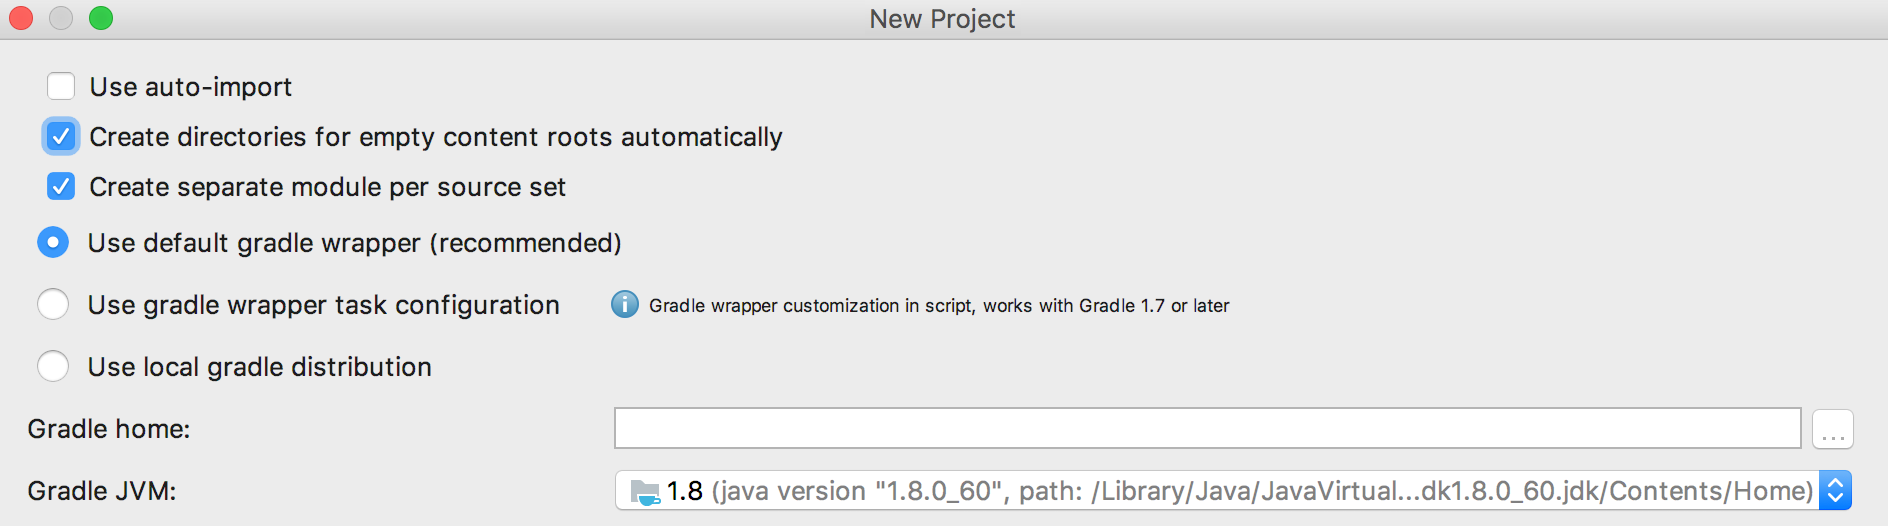
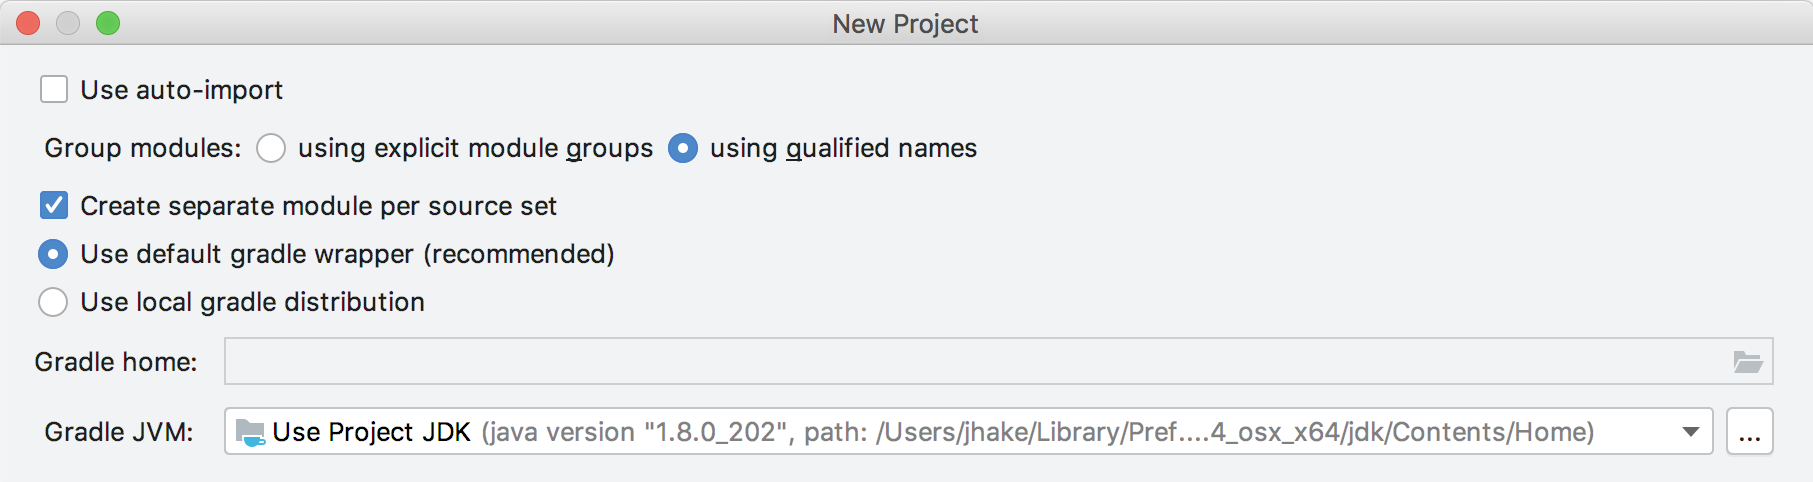
Rewrote gradle project creation and conversion sections

diff --git a/tutorials/build_system/prerequisites.md b/tutorials/build_system/prerequisites.md
@@ -2,46 +2,197 @@
 title: Getting Started with Gradle
 ---
 
-Adding Gradle build support to an IntelliJ Platform Plugin requires a recent distribution of the Gradle build system and IntelliJ IDEA (Community or Ultimate). 
+Gradle is the preferred solution for creating IntelliJ Platform plugins.
+The IntelliJ IDEA Ultimate and Community editions bundle the necessary plugins to support Gradle-based development.
+These IntelliJ IDEA plugins are _Gradle_ and _Plugin DevKit_, which are enabled by default.
+To verify these plugins are installed and enabled, see the help section about [Managing Plugins](https://www.jetbrains.com/help/idea/managing-plugins.html).
 
-### 1.0 Download and Install IntelliJ IDEA
+* bullet list
+{:toc}
 
-Download and install either IntelliJ IDEA Ultimate or the IntelliJ IDEA Community Edition. 
 
-### 1.1 Ensure that 'Gradle' and 'Plugin DevKit' Plugins are Enabled
+## Creating a Gradle-Based IntelliJ Platform Plugin with New Project Wizard
+IntelliJ IDEA supports creating new Gradle-based IntelliJ Platform plugin projects using the [New Project Wizard](https://www.jetbrains.com/help/idea/gradle.html#project_create_gradle).
+The Wizard creates all the necessary project files based on a few template inputs.
 
-You can verify that the plugins are enabled by visiting **Settings \| Plugins**. 
+Before creating a new Gradle project, familiarize yourself with the IntelliJ IDEA help topic [Creating a new Gradle project](https://www.jetbrains.com/help/idea/getting-started-with-gradle.html#create_gradle_project), which is a tutorial for creating general Gradle projects in IntelliJ IDEA.
+This page emphasizes the steps in the process pertaining to Gradle-based IntelliJ Platform plugin projects.
 
-![Ensure the Gradle plugin is enabled](img/step0_gradle_enabled.png){:width="858px"}
+Launch the [New Project Wizard](https://www.jetbrains.com/help/idea/gradle.html#project_create_gradle).
+It guides you through the Gradle project creation process with four screens.
 
-### 1.2 Create a Plugin Project from Scratch
-
-IntelliJ IDEA supports automatically creating new plugin projects using Gradle, with all the necessary `build.gradle` setup performed automatically. 
-This can also be used to convert an existing plugin to Gradle, if Gradle is not able to convert the existing project - in this case, you need to copy over the sources to the new project. 
-
-To do so, create a new project in IntelliJ IDEA by opening **File \| New... \| Project**, and select Gradle from the dialog box. 
-In the "Additional Libraries and Frameworks" page, check "IntelliJ Platform Plugin".
+### New Project Configuration Screen
+On the first screen the type of project is configured:
+* From the _product category_ pane on the left, choose _Gradle_.
+* Specify the _Project SDK_.
+  Note that an [_IntelliJ Platform Plugin SDK_](/basics/getting_started/setting_up_environment.md#configuring-intellij-platform-sdk) can be used but is not required.
+  However, select a _Project SDK_ based on the 1.8 JDK because it:
+  * Will be the default JRE used to run Gradle (this can be changed later),
+  * Will also be the Java version to use when compiling Java source.
+    As of this writing, Java 1.8 is the most recent JDK supported by the IntelliJ Platform.
+* In the _Additional Libraries and Frameworks_ panel, select _Java_ and _IntelliJ Platform Plugin_, then click _Next_.
 
 ![Select the Gradle facet in the Project Creation Wizard](img/step1_new_gradle_project.png){:width="800px"}
 
-The Project Creation Wizard will now guide you through the Gradle project creation process. 
-You will need to specify a Group ID, Artifact ID, and Version:
+### Project Naming Screen
+On this, the second screen of the Wizard, specify a [Group ID, Artifact ID, and plugin Version](https://www.jetbrains.com/help/idea/gradle.html#project_create_gradle) using [Maven naming](https://maven.apache.org/guides/mini/guide-naming-conventions.html) conventions.
+* _Group ID_ is typically a Java package name, and it is used for the `project.group` value in the project's `build.gradle` file.
+* _Artifact ID_ is the default name of the project JAR file (without version).
+  It is also used for the `rootProject.name` value in the project's `settings.gradle` file.
+* _Version_ is used for the `project.version` value in the `build.gradle` file. 
 
-![Specify the Group, Artifact, and Version IDs](img/step2_group_artifact_version.png){:width="800px"}
+Click _Next_ to continue. 
 
-It’s recommended to select the `Use default gradle wrapper` option, that way IntelliJ IDEA will install everything you need to run Gradle tasks itself. 
-
-Finally, specify a JVM Gradle will use, it can be the Project JDK. 
-You also configure this path once the project is created via **Settings \| Build, Execution, Deployment \| Build Tools \| Gradle**. 
+### Gradle Settings Screen
+The third screen prompts for Gradle-specific settings. 
+All of these settings can be changed once the project is created via **Settings \| Build, Execution, Deployment \| Build Tools \| Gradle**. 
+* Select whether to [_Use auto-import_](https://www.jetbrains.com/help/idea/gradle-settings.html).
+* Select _Create directories for empty content roots automatically_.
+  This selection will add a `src` directory to your project.
+* Choose how to [_Group modules_](https://www.jetbrains.com/help/idea/creating-and-managing-modules.html#grouping-modules), either by IntelliJ IDEA logical grouping or by Qualified Names. 
+  For new projects grouping modules by qualified names is recommended.
+* Create a separate module per Gradle [`SourceSet`](https://docs.gradle.org/current/userguide/java_plugin.html#source_sets). 
+  For a new project, this option results in `main` and `test` modules.
+* It’s recommended to select the [_Use default gradle wrapper_](https://docs.gradle.org/current/userguide/gradle_wrapper.html) option.
+  That way IntelliJ IDEA installs everything you need to run Gradle tasks. 
+* Skip using a local Gradle distribution, at least initially.
+  The Gradle plugin automatically downloads the preferred version of Gradle.
+  A local Gradle distribution can be used, but ensure it meets the version requirements of the [Gradle plugin](https://github.com/JetBrains/gradle-intellij-plugin/blob/master/README.md). 
+* Finally, specify a JVM for Gradle.
+  It can be the _Project JDK_, which was specified as the [_Project SDK_](#new-project-configuration-screen) on the first screen. 
+  
+Click _Next_ to continue. 
 
 ![Verify the JVM is the correct version](img/step3_gradle_config.png){:width="800px"}
 
-### 1.3 Configuring a Gradle Plugin Project
-Support for Gradle-based plugin projects is provided by the IntelliJ Platform `gradle-intellij-plugin`. 
+### Project Name and Location Screen
+The final Wizard screen is for setting the [project name and location](https://www.jetbrains.com/help/idea/project-name-and-location.html#Project_Name_and_Location.xml).
+The _Project name_ is pre-filled with the [Artifact ID](#project-naming-screen).
 
-> **Note** Please make sure to always upgrade to latest version of `gradle-intellij-plugin` plugin, follow releases on [GitHub](https://github.com/JetBrains/gradle-intellij-plugin/releases). 
+Note the choice of _Project format_ under _More Settings_ is somewhat superfluous.
+Although an `.idea` directory or `.ipr` file is generated as the project is created and built, it is Gradle and the IntelliJ IDEA Gradle plugin that control many aspects of the project.  
 
-See the [Gradle plugin README](https://github.com/JetBrains/gradle-intellij-plugin/blob/master/README.md#gradle) for more information. 
+Click _Finish_.
+
+### Components of a Wizard-Generated Gradle IntelliJ Platform Plugin
+The New Project Wizard produces the project layout shown below:
+* The default IntelliJ Platform `build.gradle` file.
+  The contents are further discussed below.
+* The Gradle Wrapper files, and in particular the `gradle-wrapper.properties` file, which specifies the version of Gradle to be used to build the plugin.
+  If needed, the IntelliJ IDEA Gradle plugin will download the version of Gradle specified in this file.
+* The shell scripts `gradlew` and `gradlew.bat` for executing the plugin build with the Wrapper files. 
+* The `settings.gradle` file, containing a definition of the `rootProject.name`.
+* The structure under the `src` directory is the default Gradle [`SourceSet`](https://docs.gradle.org/current/userguide/java_plugin.html#sec:java_project_layout), tailored for an IntelliJ Platform Plugin.
+
+```text
+  my_gradle_plugin/
+    build.gradle
+    gradle/
+      wrapper/
+        gradle-wrapper.jar
+        gradle-wrapper.properties
+    gradlew
+    gradlew.bat
+    settings.gradle
+    src/
+      main
+        java/
+        resources/
+          META-INF/
+            plugin.xml
+      test
+        java/
+        resources/
+```
+
+The New Project Wizard produces the `build.gradle` file shown below:
+* There is no explicit `buildscript{}` in the file.
+  The IntelliJ IDEA Gradle plugin dynamically creates a `buildscript{}`.
+* Two plugins to Gradle are explicitly declared:
+  * The [Gradle Java](https://docs.gradle.org/current/userguide/java_plugin.html) plugin.
+  * The [IntelliJ IDEA Gradle plugin](https://github.com/JetBrains/gradle-intellij-plugin/).
+* The _Group ID_ from the Wizard [Project Naming Screen](#project-naming-screen) is the `(project.)group` value.
+* The _Version_ from the Wizard [Project Naming Screen](#project-naming-screen) is the `(project.)version` value.
+* The `sourceCompatibility` line is injected to enforce using JDK 1.8.
+* The only comment in the file is a link to the `README.md` for the IntelliJ IDEA Gradle plugin, which is a reference for the DSLs defined by the plugin.
+* The value of the Setup DSL attribute `intellij.version` specifies the version of the IntelliJ Platform to be used to build the plugin.
+  It defaults to the version of IntelliJ IDEA that was used to run the Wizard.
+* The value of the Patching DSL attribute `patchPluginXml.changeNotes` is set to place holder text.
+
+```text
+  plugins {
+      id 'java'
+      id 'org.jetbrains.intellij' version '0.4.8'
+  }
+  
+  group 'com.your.company'
+  version '1.0' 
+  sourceCompatibility = 1.8
+  
+  repositories {
+      mavenCentral()
+  } 
+  dependencies {
+      testCompile group: 'junit', name: 'junit', version: '4.12'
+  }
+  
+  // See https://github.com/JetBrains/gradle-intellij-plugin/
+  intellij {
+      version '2019.1'
+  }
+  patchPluginXml {
+      changeNotes """
+        Add change notes here.<br>
+        <em>most HTML tags may be used</em>"""
+  }
+```
+
+### Opening a Wizard-Generated Gradle Project for the First Time
+The first time a project is opened an _Import Project from Gradle_ dialog appears.
+This dialog is essentially the same as the Wizard [Gradle Settings Screen](#gradle-settings-screen).
+Opening the project is an import because the Gradle plugin translates some of the project's Gradle files into IntelliJ IDEA project working files.
+For example, the import creates a `.idea` directory and a `<project_name>.iml` file.
+
+These IntelliJ IDEA project working files can be saved with the project to avoid the import step in the future.
+See the note at the end of the [Creating a new Gradle project](https://www.jetbrains.com/help/idea/gradle.html#project_create_gradle) about how newly created or imported projects are stored externally by default.
+
+## Adding Gradle Support to an Existing DevKit-Based IntelliJ Platform Plugin
+As of this writing, there isn't an IntelliJ IDEA Wizard to automatically convert a DevKit-based plugin project to a Gradle-based plugin project.
+Conversion can be done, however, using the New Project Wizard to create a Gradle-based project around the existing DevKit-based project: 
+* Ensure the directory containing the DevKit-based IntelliJ Platform plugin project can be fully recovered if necessary.
+* Delete all the artifacts of the DevKit-based project:
+  * `.idea` directory
+  * IML file
+  * `out` directory
+* Arrange the existing source files within the project directory in Gradle `SourceSet` format. 
+* Use [Gradle Plugin Wizard](#creating-a-gradle-based-intellij-platform-plugin-with-new-project-wizard) as though creating a new project from scratch.
+* On the [Project Naming Screen](#project-naming-screen) set the values to:
+  * GroupID to the existing package in the initial source set.
+  * ArtifactID to the name of the existing plugin.
+  * Version to the same as the existing plugin.
+* On the [Project Name and Location Screen](#project-project-name-and-location-screen) set the values to:
+  * _Project name_ to the name of the existing plugin. 
+    (It should be pre-filled from the _ArtifactID_)
+  * Set the _Project location_ to the directory of the existing plugin.
+* Click _Finish_ to create the new Gradle-based plugin.
+* [Add more modules](https://www.jetbrains.com/help/idea/gradle.html#gradle_add_module) using Gradle [_Source Sets_](https://www.jetbrains.com/help/idea/gradle.html#gradle_source_sets) as needed.
+
+
+## Running a Simple Gradle-Based IntelliJ Platform Plugin
+Open the IntelliJ Platform SDK in IntelliJ IDEA Ultimate or Community Edition using **File \| Open** and navigating to the root directory of the local copy of the IntelliJ Platform SDK. Open the Gradle tool window and look for the _gradle_plugin_demo_ project:
+* Drill down in the Gradle tool window to find **gradle_plugin_demo \| Tasks \| intellij | runIde**.
+  If it’s not in the list, please hit the `Refresh` button at the top of the Gradle tool window. 
+* Double-click on the _runIde_ task to execute it.
+  See the IntelliJ IDEA help for more information about [Working with Gradle tasks](https://www.jetbrains.com/help/idea/gradle.html#96bba6c3).
+
+Finally, when the _gradle_plugin_demo_ plugin launches in the IDE development instance, there should be a new menu to the right of the **Help** menu. 
+
+## Configuring a Gradle-Based IntelliJ Platform Plugin Project
+See the [Gradle plugin README](https://github.com/JetBrains/gradle-intellij-plugin/blob/master/README.md#gradle) for more information about configuring IntelliJ Platform Plugin Projects. 
+
+> **Note** Please make sure to always upgrade to the latest version of `gradle-intellij-plugin`.
+Follow releases on [GitHub](https://github.com/JetBrains/gradle-intellij-plugin/releases). 
+
 For example, to configure the **Sandbox Home** directory's location include the following in the project's `build.gradle` file:
 ```groovy
 intellij {
@@ -49,75 +200,3 @@ intellij {
 }
 ```
 See the [IDE Development Instances](/basics/ide_development_instance.md) page for more information about default Sandbox Home directory locations and contents. 
- 
-### 1.4 Add Gradle Support to an Existing Plugin 
-
-To add Gradle support to an existing plugin project, create a `build.gradle` file under the root directory, with at least the following contents:
-
-```groovy
-buildscript {
-    repositories {
-        mavenCentral()
-    }
-}
-
-plugins {
-    id "org.jetbrains.intellij" version "0.4.8"
-}
-
-apply plugin: 'idea'
-apply plugin: 'org.jetbrains.intellij'
-apply plugin: 'java'
-
-intellij {
-    version 'IC-2016.3' //IntelliJ IDEA 2016.3 dependency; for a full list of IntelliJ IDEA releases please see https://www.jetbrains.com/intellij-repository/releases
-    plugins 'coverage' //Bundled plugin dependencies
-    pluginName 'plugin_name_goes_here'
-}
-
-group 'org.jetbrains'
-version '1.2' // Plugin version
-```
-
-Then, with the Gradle executable on your system `PATH`, execute the following commands on your system's command line:
-
-```
-gradle cleanIdea idea
-```
-
-This will clean any existing IntelliJ IDEA configuration files and generate a new Gradle build configuration recognized by IntelliJ IDEA. 
-Once your project refreshes, you should be able to view the Gradle tool window displayed under **View \| Tool Windows \| Gradle**. 
-This indicates that IntelliJ IDEA recognizes the Gradle facet. 
-
-### 1.5 Running a Simple Plugin
-
-Now add a new `HelloAction` class to the Java folder, and `plugin.xml` and `pluginIcon.svg` files in the `META-INF` folder. 
-For more information about `pluginIcon.svg` files, see the [Plugin Icon](/basics/plugin_structure/plugin_icon_file.md) page. 
-
-![Gradle directory structure](img/gradle_directory_structure.png){:width="374px"}
-
-```java
-{% include /code_samples/gradle_plugin_demo/src/main/java/HelloAction.java %}
-```
-
-```java
-{% include /code_samples/gradle_plugin_demo/src/main/resources/META-INF/plugin.xml %}
-```
-
-Open the Gradle tool window and search for `runIde` task. 
-If it’s not in the list, please hit `Refresh` button on the top. 
-Double-click on it to run it.
-
-![Gradle Tool Window](img/gradle_tasks_in_tool_window.png){:width="398px"}
-
-Or add a new Gradle Run Configuration, configured like so:
-
-![Gradle Run Configuration](img/gradle_run_config.png){:width="800px"}
-
-Launch the new Gradle Run Configuration. 
-From the Run Window, the following output should be visible. 
-
-![Gradle task output](img/launched.png){:width="800px"}
-
-Finally, when the IDE launches, there should be a new menu to the right of the **Help** menu. 
-Your plugin is now configured on Gradle. 
